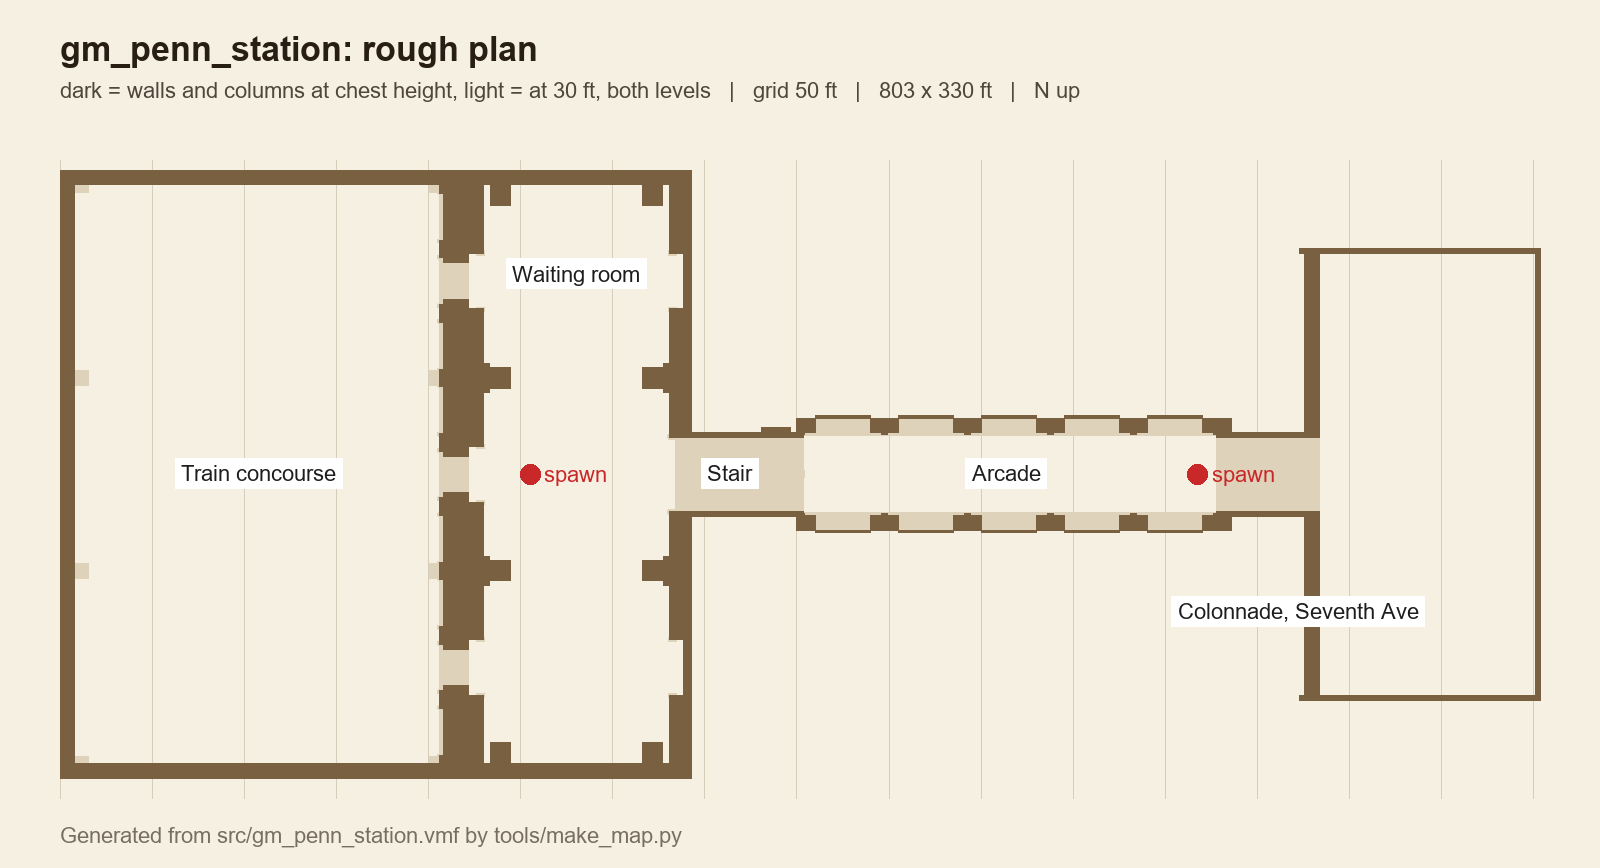
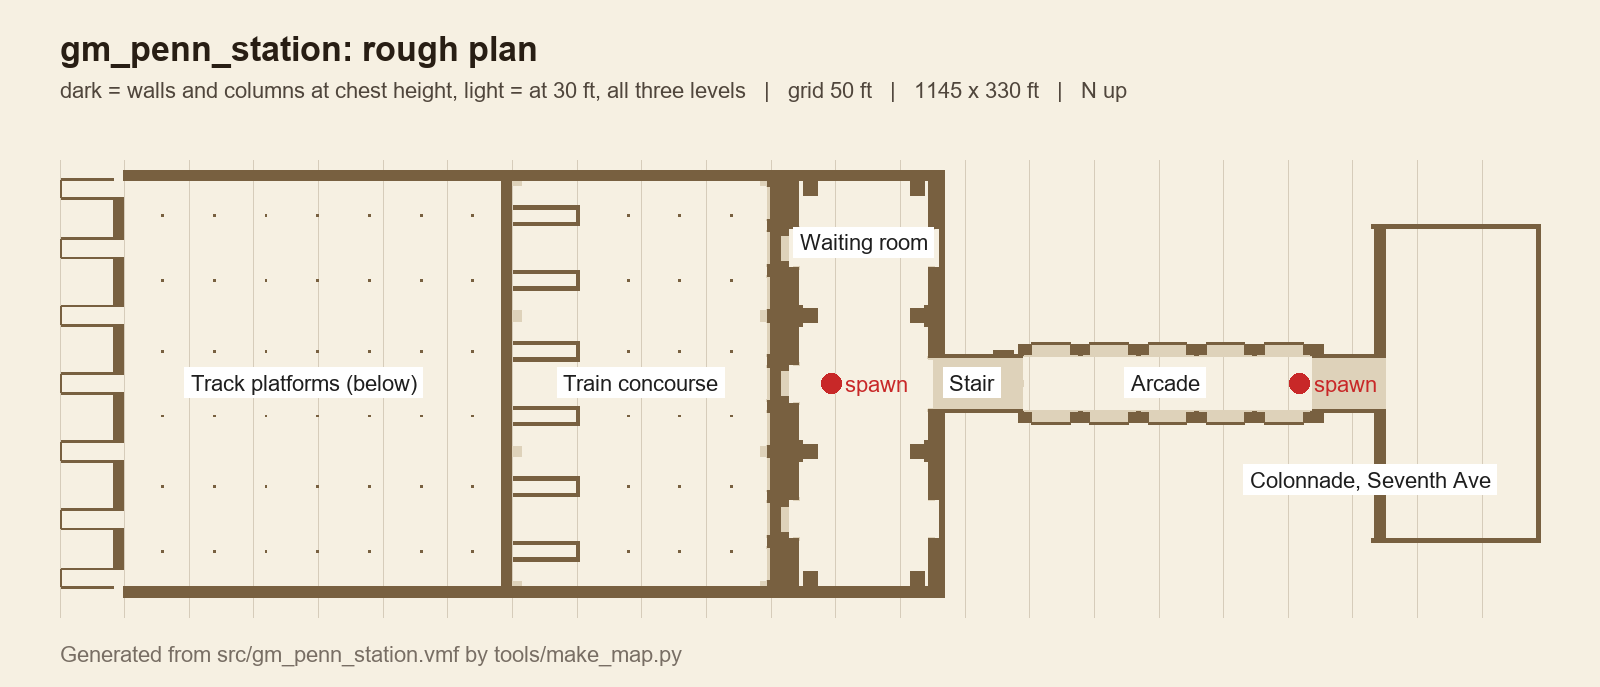
Release 0.4.0: track platforms and trains

Changed region(s): [[0.0312, 0.1834, 0.9688, 0.917], [0.0312, 0.0306, 0.7188, 0.1528], [0.0312, 0.9476, 0.4375, 0.9782]]

diff --git a/tools/make_map.py b/tools/make_map.py
@@ -12,6 +12,7 @@ VMF = Path(__file__).resolve().parent.parent / "src" / "gm_penn_station.vmf"
 OUT = Path(sys.argv[1] if len(sys.argv) > 1 else "docs/level-map.png")
 FT = 12
 LAND = 16 * FT   # arcade and street level
+PLAT = -240      # track platform level
 txt = VMF.read_text()
 solids = []
 for blk in re.split(r"(?m)^\s*solid$", txt)[1:]:
@@ -41,8 +42,8 @@ for pts, tex in solids:
     xy = hull([(p[0], p[1]) for p in pts])
     if hi - lo > 2000 or len(xy) < 3: continue
     # two walking levels: the waiting room floor (z 0) and the arcade/street landing (z 16 ft)
-    if any(lo <= z + 4*FT <= hi for z in (0, LAND)): floor.append(xy)
-    elif any(lo <= z + 30*FT <= hi for z in (0, LAND)): faint.append(xy)
+    if any(lo <= z + 4*FT <= hi for z in (0, LAND, PLAT)): floor.append(xy)
+    elif any(lo <= z + 30*FT <= hi for z in (0, LAND, PLAT)): faint.append(xy)
 allx = [x for h in floor for x, _ in h]; ally = [y for h in floor for _, y in h]
 x0, x1, y0, y1 = min(allx), max(allx), min(ally), max(ally)
 W = 1600; s = (W - 120) / (y1 - y0)
@@ -58,9 +59,9 @@ for h in floor: d.polygon([P(*q) for q in h], fill=(120, 96, 64))
 for x, y in spawn:
     cx, cy = P(x, y); d.ellipse((cx-10, cy-10, cx+10, cy+10), fill=(200, 40, 40)); d.text((cx+14, cy-12), "spawn", fill=(200, 40, 40), font=f)
 for lbl, x, y in (("Waiting room", 1300, 0), ("Stair", 0, 1000), ("Arcade", 0, 2800),
-                  ("Train concourse", 0, -2068), ("Colonnade, Seventh Ave", -900, 4700)):
+                  ("Train concourse", 0, -2068), ("Track platforms (below)", 0, -5200), ("Colonnade, Seventh Ave", -900, 4700)):
     cx, cy = P(x, y); w = d.textlength(lbl, font=f); d.rectangle((cx-w/2-6, cy-16, cx+w/2+6, cy+14), fill=(255, 255, 255)); d.text((cx-w/2, cy-13), lbl, fill=(30, 30, 30), font=f)
 d.text((60, 30), "gm_penn_station: rough plan", fill=(40, 30, 20), font=fb)
-d.text((60, 78), f"dark = walls and columns at chest height, light = at 30 ft, both levels   |   grid 50 ft   |   {round((y1-y0)/FT)} x {round((x1-x0)/FT)} ft   |   N up", fill=(80, 70, 60), font=f)
+d.text((60, 78), f"dark = walls and columns at chest height, light = at 30 ft, all three levels   |   grid 50 ft   |   {round((y1-y0)/FT)} x {round((x1-x0)/FT)} ft   |   N up", fill=(80, 70, 60), font=f)
 d.text((60, H-45), "Generated from src/gm_penn_station.vmf by tools/make_map.py", fill=(120, 110, 100), font=f)
 OUT.parent.mkdir(parents=True, exist_ok=True); img.save(OUT); print("wrote", OUT, len(floor), "brushes")

diff --git a/ai-docs/HANDOFF.md b/ai-docs/HANDOFF.md
@@ -1,14 +1,14 @@
 # HANDOFF: gm_penn_station
 
 Status: in progress
-Updated: 2026-11-27 (session 33)
+Updated: 2026-11-27 (session 34)
 
 - Prompt: plans/2026-11-25-penn-gmod-60x-continue-prompt.md
-- Chain: session 33 of 60 (started 2026-11-26)
+- Chain: session 34 of 60 (started 2026-11-26)
 - Plan: plans/penn-gmod-plan.md. Era: 1910 station (decisions/2026-11-26-era-1910.md).
 - Garry's Mod: D:/SteamLibrary/steamapps/common/GarrysMod (vbsp, vvis, vrad, bspzip, gmad, gmpublish, studiomdl, vbspinfo in bin/).
-- Budget 2026-11-27 (session 33): 19,265/65,536 verts, 10,926 faces, BSP 30.4 MB. 146 fps capped on the train shots.
-- Workshop ID: 3846546331 (public, 0.3.0). tools/package.sh defaults to it.
+- Budget 2026-11-27 (session 34): 19,265/65,536 verts, 10,926 faces, BSP 30.4 MB, gma 21.6 MB. 926-1,227 fps uncapped.
+- Workshop ID: 3846546331 (public, 0.4.0). tools/package.sh defaults to it.
 - Driver: the user-level chain_loop (C:/Users/m4bwa/.chainwright/penn-prompt.md, stop check penn_stop.py, log penn-chain.log, 60 sessions / 24 h) runs this chain. Sessions it starts never start another driver.
 
 ## Done
@@ -55,9 +55,10 @@ Updated: 2026-11-27 (session 33)
 - Session 31: platform lighting. A hanging lamp (steel rod, glowing shade on penn/window_glow) midway between the platform columns every 40 ft with a warm light (60) under it, and dim fills (20) over the tracks. The ceiling no longer reads dark; first try at 120 / 45 blew the steel out white. The shades render blue-grey, not warm. shots/20261127-0439 (committed). Not released.
 - Session 32: lamp shades use a new warm unlit penn/lamp_glow (UnlitGeneric $color 1.0 0.84 0.58, texlight 255 214 160 60); they read cream now. window_glow was an unlit blue tint, not a lighting problem. shots/20261127-0443. Not released.
 - Session 33: gold PENNSYLVANIA lettering on the DD1 cabs (Brunswick green) and the coach letter boards (Tuscan red), after the 1910 booklet's DD1 photo. tools/penn_models.py renders it with DejaVu Serif Bold (free licence) into models/penn/letter_green/_tuscan VTFs. The two booklet plates are a DD1 photo and the facade clock/eagles, not a track plan, so the platform layout stays as built. shots/20261127-0448. Not released.
+- Session 34: 0.4.0 released (area 4). README text and four platform/train screenshots, level map draws the platform level (make_map.py PLAT) and labels it, Workshop description, gma (21.6 MB) and 4 previews uploaded (EResult 1), tag v0.4.0. shots/20261127-0452.
 
 ## Next
-1. Area 4: release 0.4.0 (README, level map, Workshop, tag). A sourced track plan (HABS or a 1910 PRR plan) would confirm the 21-track layout; the facade plate (refs/photos/*14736759416) shows the clock with two figures and four eagles for area 5. Railings (3.4k verts of brush posts) could become one MDL if the budget tightens.
+1. Area 5 (exterior): refs first. The facade plate (refs/photos/*14736759416) shows the clock with two figures and four eagles; find PD photos of the Seventh Avenue and 31st/33rd Street fronts, then blockout. A sourced track plan (HABS or a 1910 PRR plan) would still confirm the 21-track layout. Railings (3.4k verts of brush posts) could become one MDL if the budget tightens.
 2. Optional leftovers: attic storey above the waiting-room side arches, coffered soffits on the cross arches, eagles/clock on the facade; the colonnade cornice still reads dark from the street.
 3. Wiki: the GitHub wiki needs its first page created by hand in the browser before it can be pushed (as with GCT); draft pages can go in docs/wiki/ meanwhile.
 

diff --git a/README.md b/README.md
@@ -6,14 +6,16 @@
 
 A Garry's Mod map of the 1910 Pennsylvania Station in New York (McKim, Mead & White), built at true scale (1 ft = 12 units). The station was torn down in 1963; this map rebuilds it from public-domain photographs and plans.
 
-Release 0.3.0 adds the train concourse: three glass groin vaults about 100 ft high on branching steel lattice columns and truss ribs, a travertine arcade and clock on the east wall, and six stairs down toward the tracks. Release 0.2.0 added the Seventh Avenue front: the Doric colonnade on the street, the entrance vestibule and the 225 ft shopping arcade with bronze shopfronts, groin vaults and lamp standards, down to the Cassatt statue niche at the head of the grand stair. Release 0.1.0 had the main waiting room: three groin-vaulted bays 150 ft to the crown, coffered vaults, Corinthian columns on tall pedestals, thermal windows in every lunette with morning sun on the floor. The track platforms and the rest of the exterior come next (see the [plan](ai-docs/plans/penn-gmod-plan.md)).
+Release 0.4.0 adds the track level: six island platforms with stone coping, steel columns and hanging lamps under the concourse, seven tracks running west to the tunnel portals, and two trains of Tuscan red coaches behind DD1 electrics lettered PENNSYLVANIA. Release 0.3.0 added the train concourse: three glass groin vaults about 100 ft high on branching steel lattice columns and truss ribs, a travertine arcade and clock on the east wall, and six stairs down toward the tracks. Release 0.2.0 added the Seventh Avenue front: the Doric colonnade on the street, the entrance vestibule and the 225 ft shopping arcade with bronze shopfronts, groin vaults and lamp standards, down to the Cassatt statue niche at the head of the grand stair. Release 0.1.0 had the main waiting room: three groin-vaulted bays 150 ft to the crown, coffered vaults, Corinthian columns on tall pedestals, thermal windows in every lunette with morning sun on the floor. The rest of the exterior comes next (see the [plan](ai-docs/plans/penn-gmod-plan.md)).
 
-The map is written as VMF text by a Python script, not drawn in Hammer. The textures (travertine, coffers, floor, window glass, shopfronts, paving) and the models (columns, lamps, statue, steel lattice columns and roof ribs, clock) are made by scripts in `tools/`.
+The map is written as VMF text by a Python script, not drawn in Hammer. The textures (travertine, coffers, floor, window glass, shopfronts, paving) and the models (columns, lamps, statue, steel lattice columns and roof ribs, clock, train) are made by scripts in `tools/`.
 
-Screenshots from release 0.3.0:
+Screenshots from release 0.4.0:
 
 | | |
 |---|---|
+| ![Train at the platform](docs/train_side.jpg) | ![DD1 electric](docs/train_nose.jpg) |
+| ![Along a platform](docs/plat_long.jpg) | ![Across the tracks](docs/plat_tracks.jpg) |
 | ![Concourse from the south](docs/conc_south.jpg) | ![Concourse looking east](docs/conc_east.jpg) |
 | ![Concourse glass vault](docs/conc_vault.jpg) | ![Concourse clock](docs/conc_clock.jpg) |
 | ![Seventh Avenue colonnade](docs/colonnade_street.jpg) | ![Under the portico](docs/colonnade_portico.jpg) |

diff --git a/ai-docs/log.md b/ai-docs/log.md
@@ -37,3 +37,4 @@
 - 2026-11-27 session 31: platform hanging lamps + track fills. Lights 120 (lamps) / 45 (fills) overexposed the platforms; 60 / 20 is right. penn/window_glow on a small brush reads blue-grey, not warm. 19,265 verts, BSP 30.3 MB, 133-147 fps capped. shots/20261127-0439.
 - 2026-11-27 session 32: penn/window_glow is UnlitGeneric with a blue $color, so any brush using it looks blue-grey whatever the lights; platform lamp shades now use penn/lamp_glow (warm). 19,265 verts, BSP 30.3 MB, 127-146 fps capped. shots/20261127-0443.
 - 2026-11-27 session 33: train lettering (letter_green/_tuscan VTFs, DejaVu Serif Bold, quads 0.5 u proud of the body; SMD v=1 is the image top and the CCW-from-outside winding gives unmirrored text). The 1910 booklet plates hold no track plan. 19,265 verts, BSP 30.4 MB. shots/20261127-0448.
+- 2026-11-27 session 34: 0.4.0 release (area 4, platforms + trains). 19,265 verts / 10,926 faces, BSP 30.4 MB, gma 21.6 MB; 926-1,227 fps uncapped (shots/20261127-0452). make_map.py now also takes brushes at the platform level (PLAT -240). workshop_update.py --preview adds previews, it never replaces the old ones (item now has 11+).
